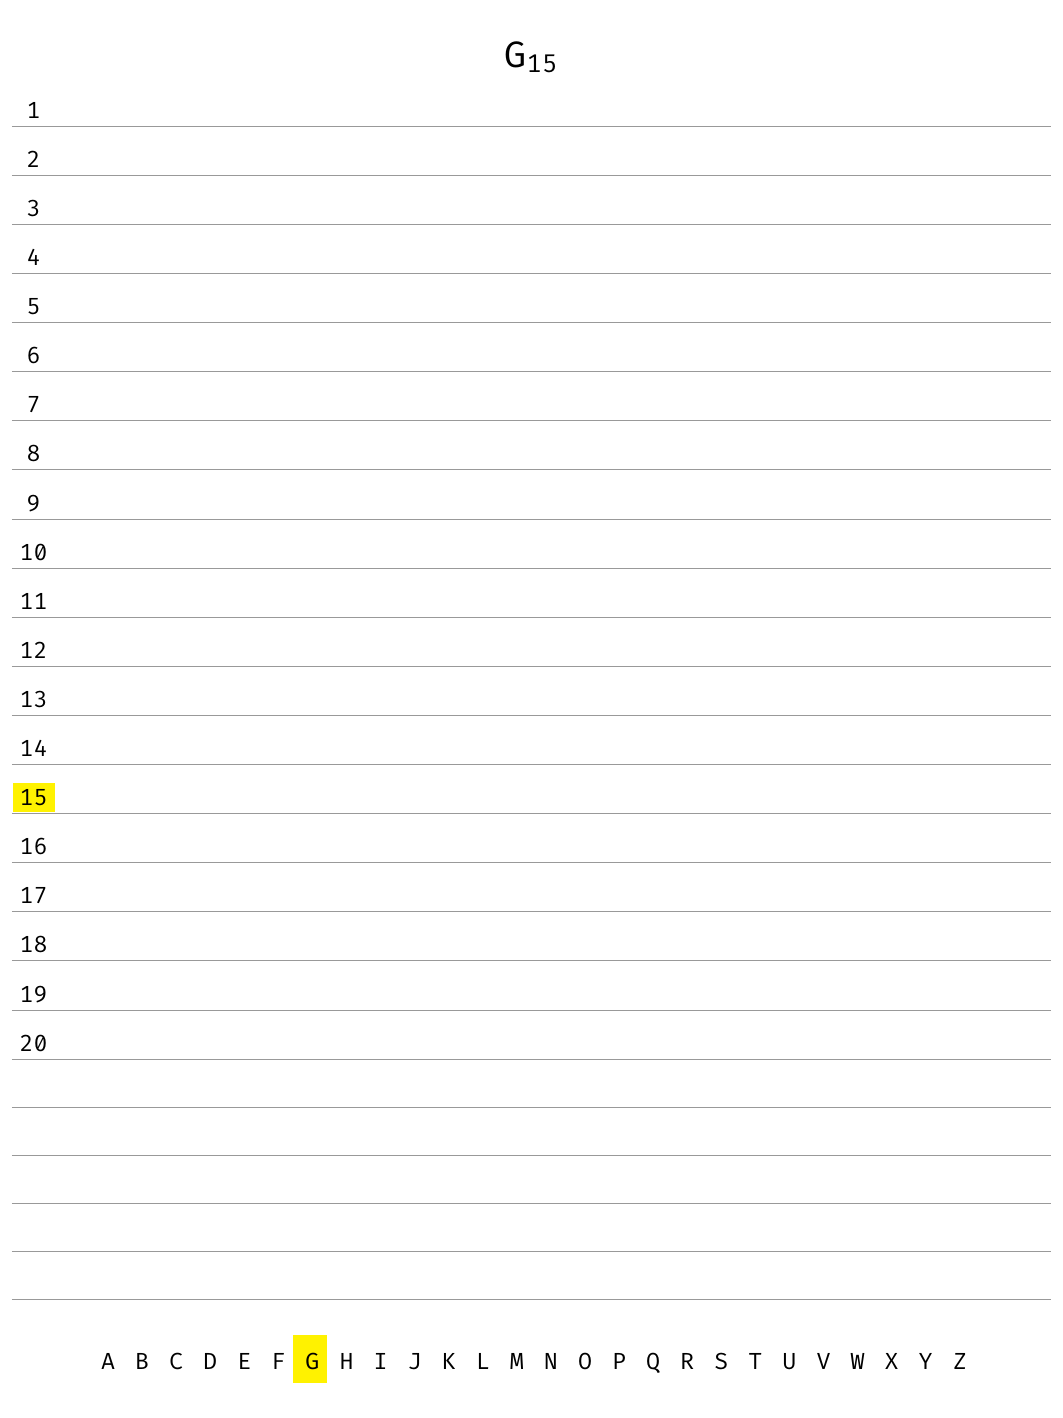
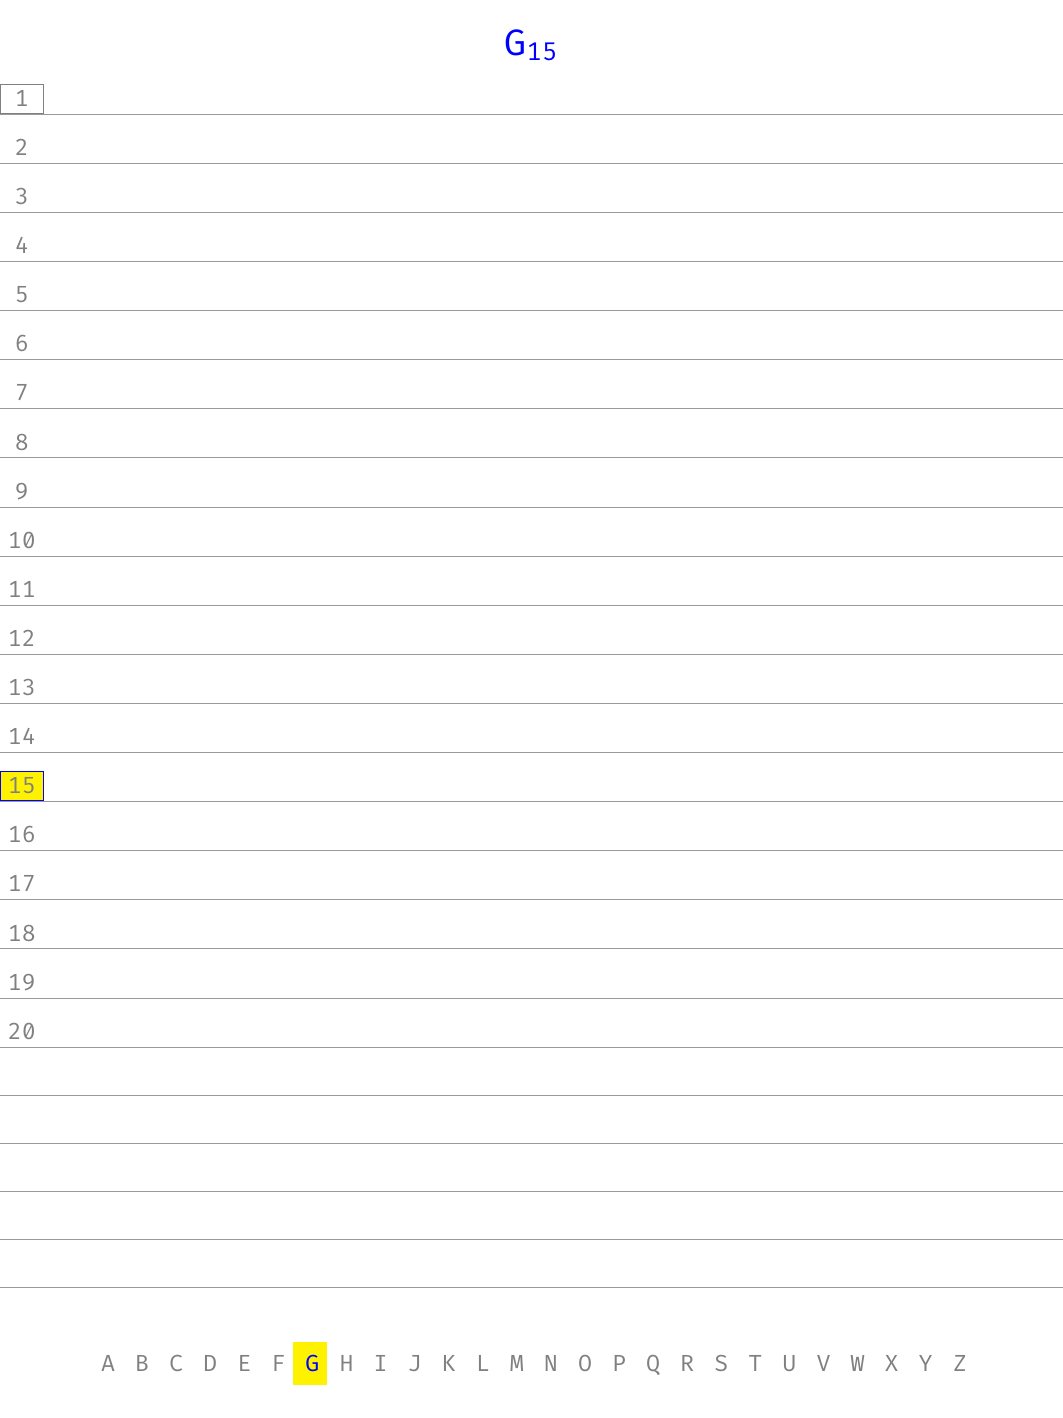
Polish

diff --git a/az20/az.tex b/az20/az.tex
@@ -7,10 +7,10 @@
 % 2160 x 1620 resolution (229 PPI)
 \geometry{paperwidth=18cm, paperheight=24cm}
 \geometry{
-  top=0.7cm,
-  bottom=0.2cm,
-  left=0.2cm,
-  right=0.2cm,
+  top=5mm,
+  bottom=7mm,
+  left=0mm,
+  right=0mm,
 }
 \usepackage{hyperref}
 \hypersetup{hidelinks=true}

diff --git a/README.md b/README.md
@@ -39,12 +39,22 @@ $ ssh root@10.11.99.1
 # mount -o remount,ro /
 ```
 
-## AZ 20
+## AZ
+
+### AZ 20
 
 Custom dictionary template with 20 pages per character (A, B, ...).
 Download from [releases](https://github.com/geraldolsribeiro/reMarkable/releases/download/0.1.0/az20.pdf).
 
 <img width="532" src="https://github.com/geraldolsribeiro/reMarkable/blob/main/az20/az20.png" />
+
+### AZ 25
+
+<img width="532" src="https://github.com/geraldolsribeiro/reMarkable/blob/main/az20/az25.png" />
+
+### AZ 50
+
+<img width="532" src="https://github.com/geraldolsribeiro/reMarkable/blob/main/az20/az50.png" />
 
 ## Disclaimer
 
